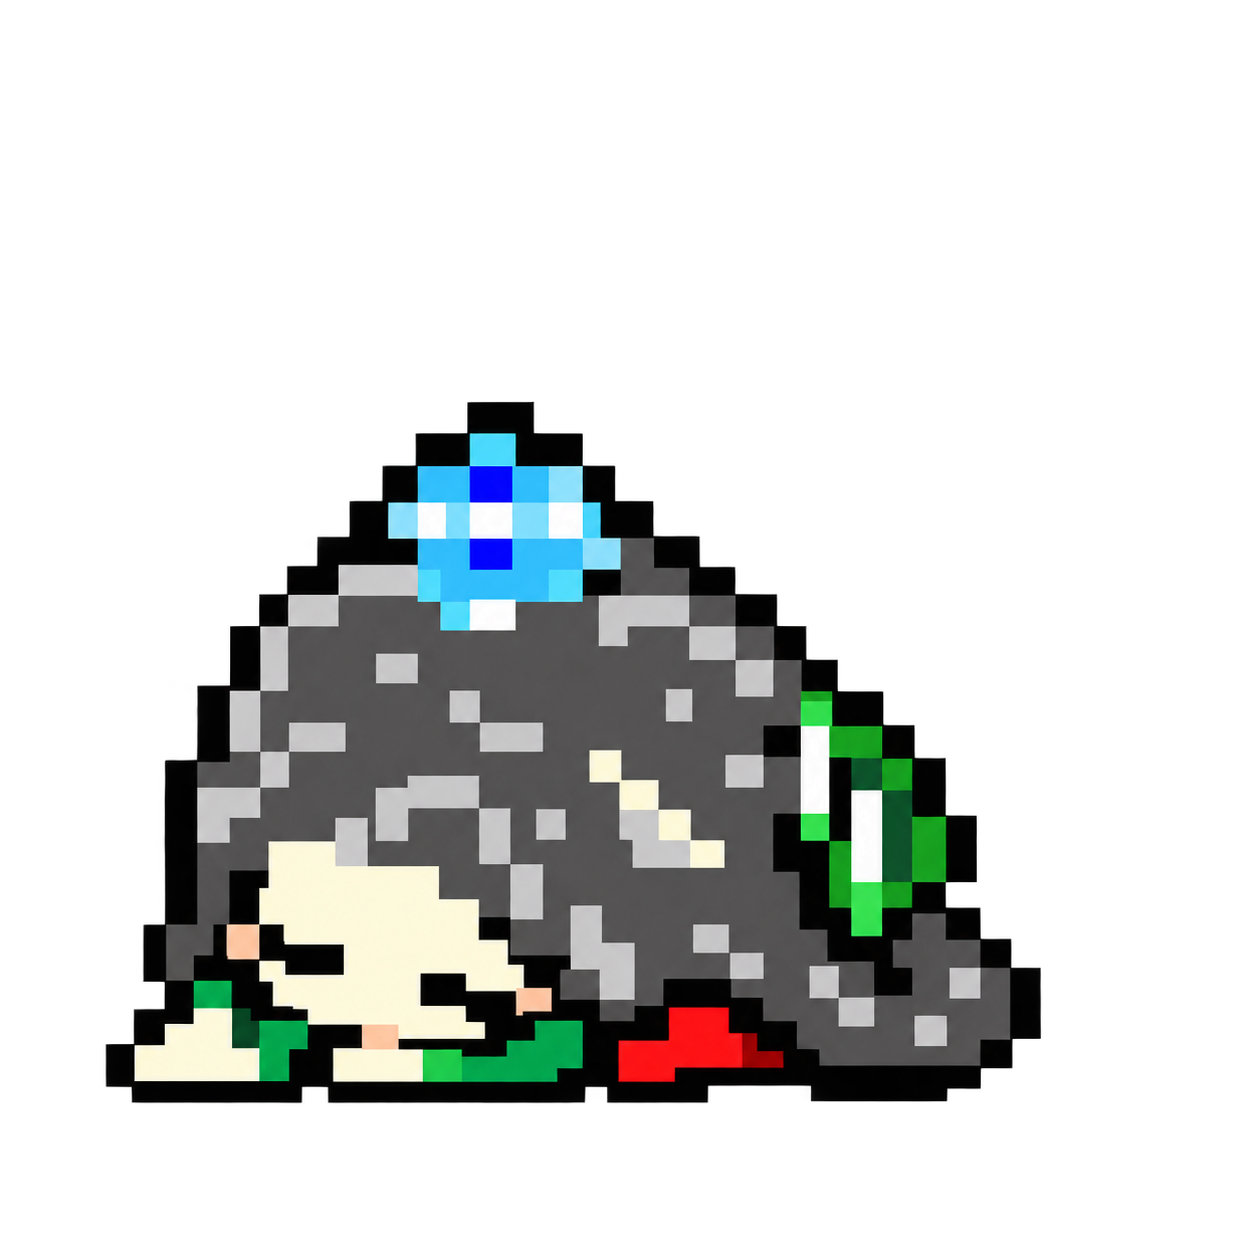
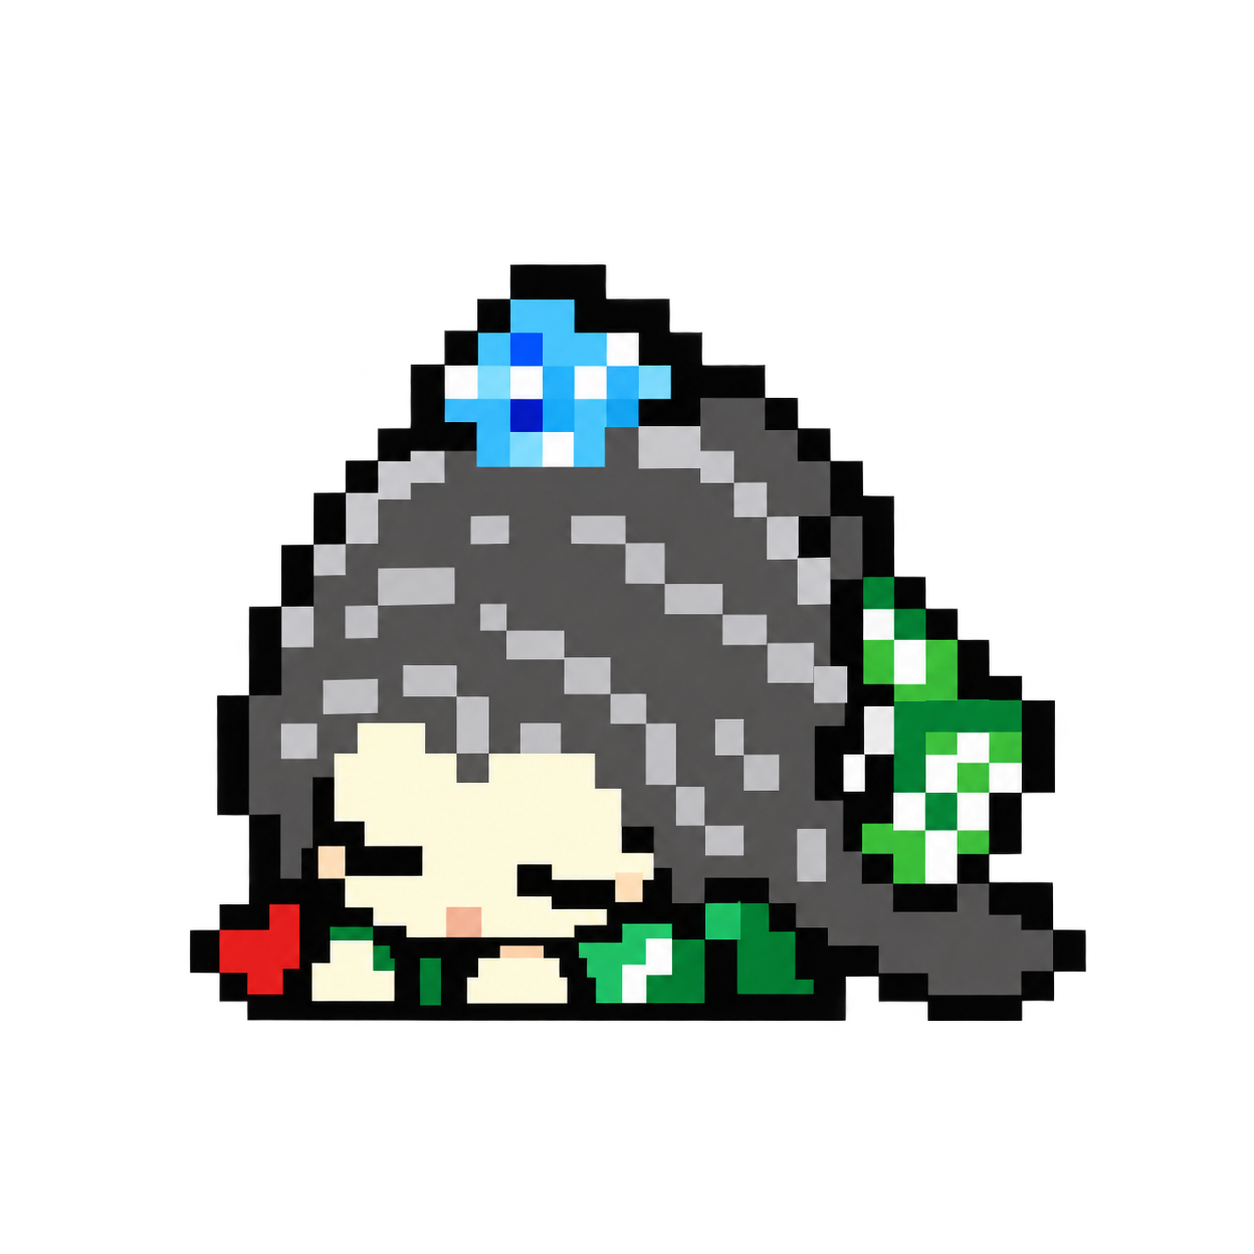
art: use approved first prone pose for Shen Qing sleep

Changed region(s): [[0.0622, 0.1866, 0.8708, 0.9019]]

diff --git a/Assets/Source/AnimationAtlases/shenqing-v4/sleeping-preview.html b/Assets/Source/AnimationAtlases/shenqing-v4/sleeping-preview.html
@@ -1,0 +1,18 @@
+<!doctype html>
+<html lang="zh-CN">
+<head>
+<meta charset="utf-8">
+<meta name="viewport" content="width=device-width,initial-scale=1">
+<title>沈青 · 当前睡眠动画</title>
+<style>
+*{box-sizing:border-box}body{margin:0;background:#f4f1e9;color:#253c35;font-family:-apple-system,BlinkMacSystemFont,"Segoe UI",sans-serif}main{max-width:660px;margin:auto;padding:32px 20px}.eyebrow{font-size:12px;letter-spacing:.16em;color:#6b7c70}h1{font-size:26px;margin:10px 0 12px}p{font-size:14px;line-height:1.8;color:#627168}.card{margin-top:22px;border:1px solid #b9c9ba;background:#fffdf8;border-radius:16px;overflow:hidden}.stage{display:flex;justify-content:center;align-items:center;min-height:390px;background-color:#e8e9e0;background-image:linear-gradient(45deg,#dce0d5 25%,transparent 25%),linear-gradient(-45deg,#dce0d5 25%,transparent 25%),linear-gradient(45deg,transparent 75%,#dce0d5 75%),linear-gradient(-45deg,transparent 75%,#dce0d5 75%);background-size:20px 20px;background-position:0 0,0 10px,10px -10px,-10px 0}.stage img{display:block;width:362px;max-width:100%;image-rendering:pixelated}.links{padding:18px 20px;font-size:13px;display:flex;gap:22px;flex-wrap:wrap}a{color:#376b56;text-underline-offset:3px}footer{font-size:12px;color:#788477;margin-top:20px}
+</style>
+</head>
+<body><main>
+<div class="eyebrow">沈青 · 当前启用的睡眠动作</div>
+<h1>趴着睡觉</h1>
+<p>使用已选中的第一张趴睡图，沿用 ZZZ 轻轻飘动的 10 秒循环。</p>
+<section class="card"><div class="stage"><img src="sleeping-preview.gif" alt="沈青朝左趴睡，红心在左侧，上方 ZZZ 轻轻飘动"></div><div class="links"><a href="sleeping-base-source.png">已选原图</a><a href="sleeping.png">动画底图</a><a href="sleeping-prompt.txt">绘图提示词</a></div></section>
+<footer>底图与桌宠运行时使用的 PNG 一致。</footer>
+</main></body>
+</html>

diff --git a/Assets/README.md b/Assets/README.md
@@ -70,8 +70,13 @@ Sleeping instead uses the single 362-by-362 `sleeping.png`, copied to
 `sleeping-z-{small,medium,large}.png` layers and their ten-second choreography.
 The layers' positions and horizontal movement are mirrored for Shen Qing's
 left-facing pose; the Z glyph images themselves remain unflipped.
-The replacement sleeping base has shorter, rounded hair with blunt ends,
-preserving the still sleeping pose and the separate Z layers.
+The approved sleeping base uses the first image from the balanced prone pose
+generation: Shen Qing faces left, rests on small folded hands and has a red heart
+on the left. The original generated image is retained unchanged as
+`sleeping-base-source.png`; export only crops, scales with nearest-neighbor and
+aligns it to the mirrored SuWuDu sleeping footprint. The separate Z layers retain
+their existing choreography. Open `Source/AnimationAtlases/shenqing-v4/sleeping-preview.html`
+to view this active sleeping animation on its own.
 
 Run `node Scripts/BuildShenQingV4Atlases.mjs` with Node and `sharp` available.
 `SHARP_MODULE` may point to an existing sharp installation. The script preserves
